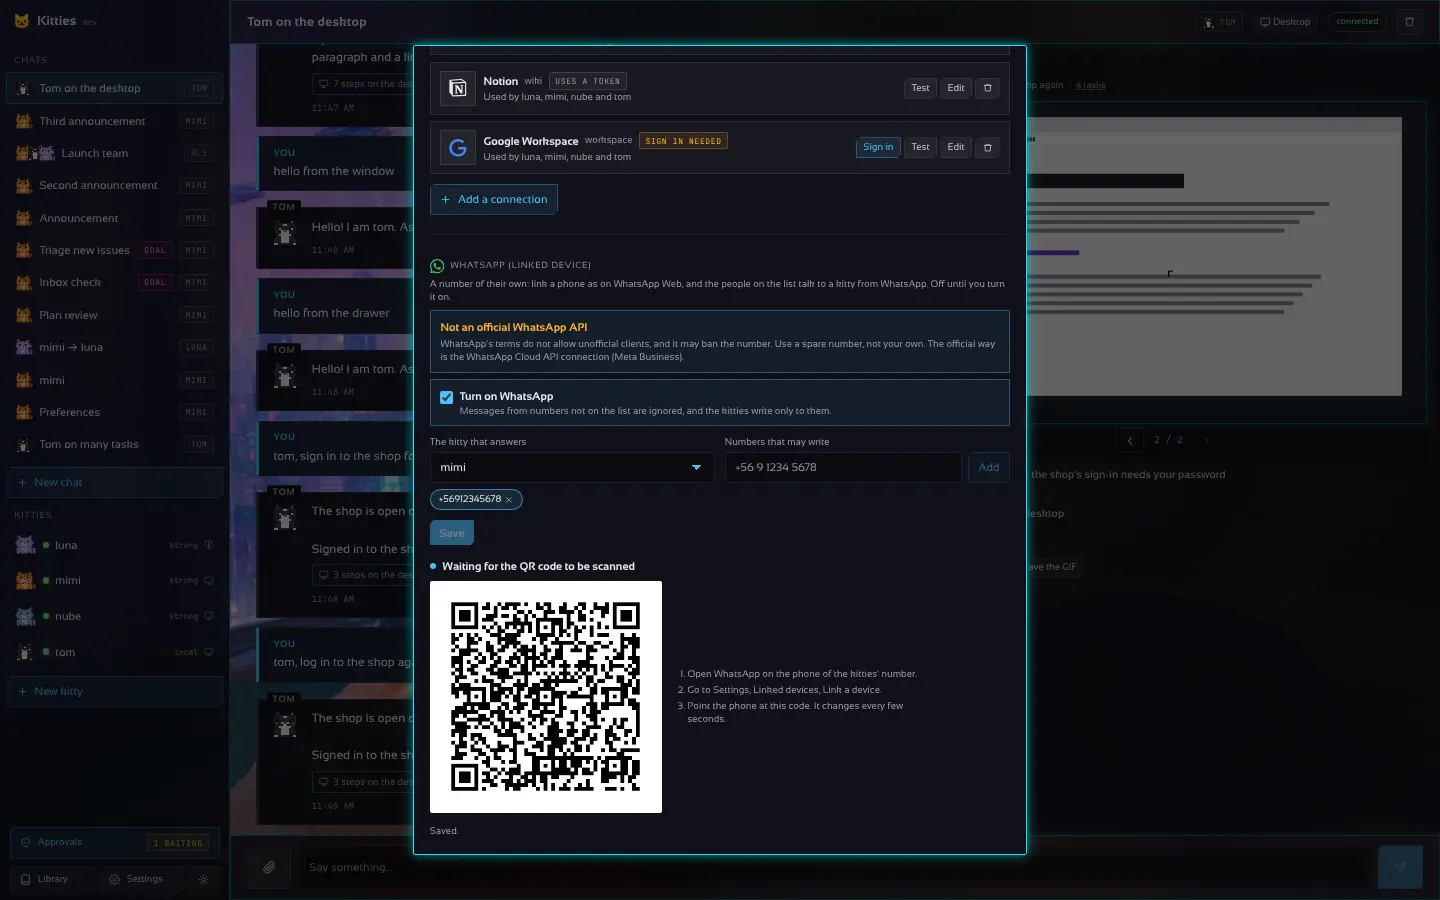
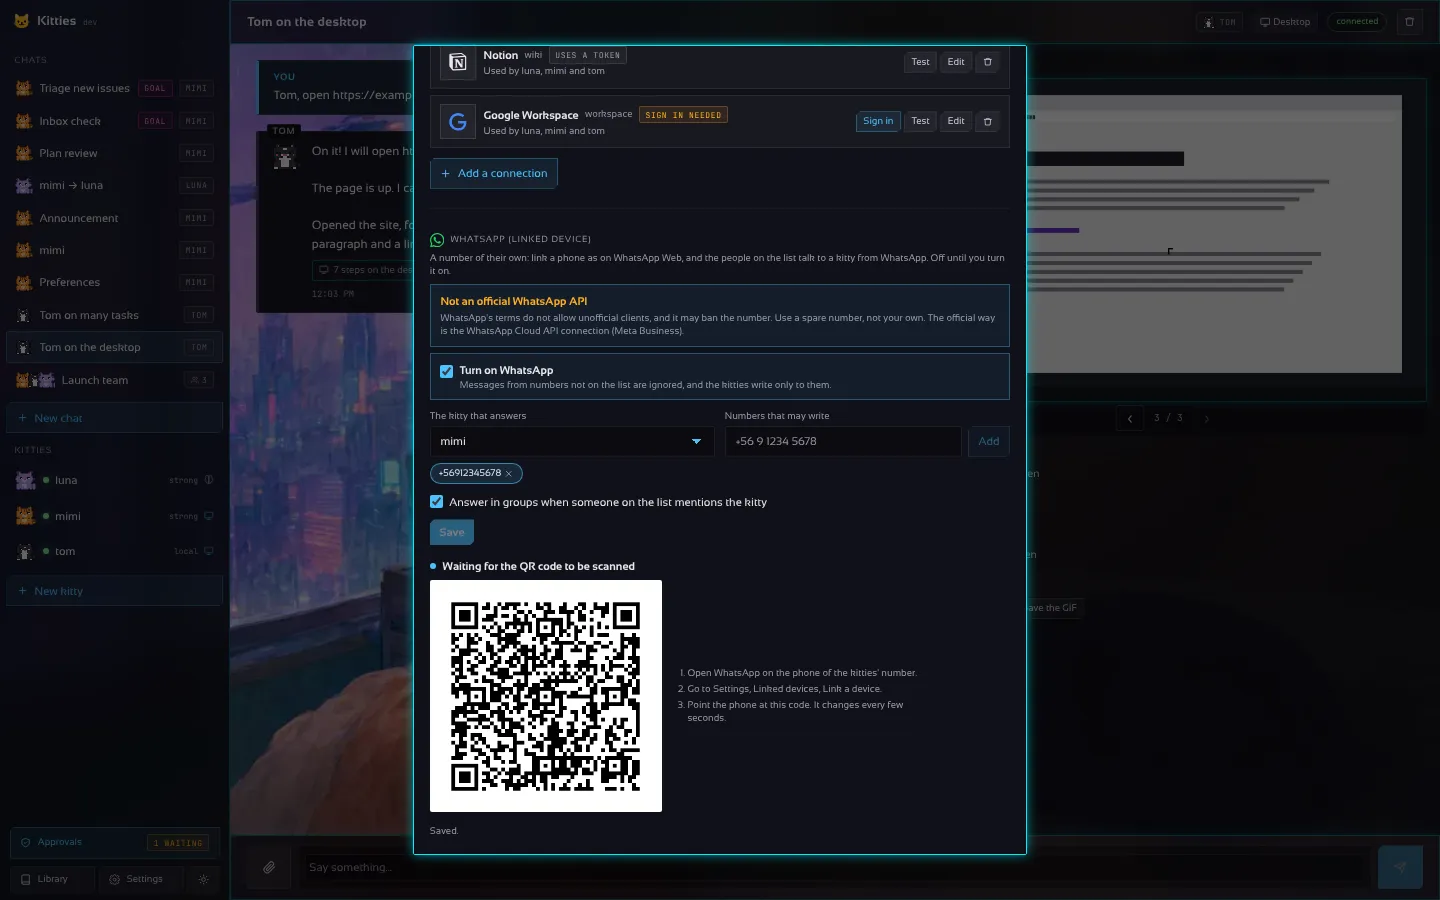
docs(whatsapp): groups, media, voice notes, typing and the YAML section
Claude-Session: https://claude.ai/code/session_017Z7sUbSYL2DPKWnmDEkcnW

diff --git a/site/es/index.html b/site/es/index.html
@@ -45,7 +45,7 @@
 <figure class="one"><img src="../img/attach.webp" alt="Un chat con una imagen y una hoja de cálculo adjuntas, y un PDF esperando en el cuadro de mensaje" loading="lazy" width="1440" height="900"><figcaption>Un mensaje con una imagen y una hoja de cálculo, y un PDF listo para enviar</figcaption></figure></section>
 <section id="claude" class="wrap"><h2>Deja que Claude maneje la flota</h2><p class="lead">Activa el conector MCP en Ajustes y Claude Code o claude.ai podrán listar, crear, encender y dar tareas a tus kitties. Tú eliges qué puede hacer, copias el comando de conexión y revocas cualquier cliente con un clic. El token nunca se muestra.</p>
 <figure class="one"><img src="../img/mcp.webp" alt="Ajustes, Claude (MCP): los interruptores, el comando de conexión y los clientes con sesión" loading="lazy" width="1440" height="900"><figcaption>Ajustes → Preferencias → Claude (MCP)</figcaption></figure></section>
-<section id="whatsapp" class="wrap"><h2>Conversa con tus kitties por WhatsApp</h2><p class="lead">Dales a los kitties un número propio: vincula un teléfono de repuesto como en WhatsApp Web escaneando un código QR en Ajustes. Las personas que pongas en la lista conversan con un kitty desde WhatsApp, y los kitties les responden. Viene desactivado, la lista parte vacía y la sesión queda sellada con la llave del vault. No es una API oficial y WhatsApp puede bloquear el número; la vía oficial es la conexión WhatsApp Cloud API.</p>
+<section id="whatsapp" class="wrap"><h2>Conversa con tus kitties por WhatsApp</h2><p class="lead">Dales a los kitties un número propio: vincula un teléfono de repuesto como en WhatsApp Web escaneando un código QR en Ajustes. Las personas que pongas en la lista conversan con un kitty desde WhatsApp, y los kitties les responden, "escribiendo…" mientras piensan. Responden en grupos cuando los nombran, leen fotos y documentos, y escuchan notas de voz. Viene desactivado, la lista parte vacía y la sesión queda sellada con la llave del vault. No es una API oficial y WhatsApp puede bloquear el número; la vía oficial es la conexión WhatsApp Cloud API.</p>
 <figure class="one"><img src="../img/whatsapp.webp" alt="Ajustes, WhatsApp: el aviso de riesgo, el kitty que responde, los números permitidos y el código QR para escanear" loading="lazy" width="1440" height="900"><figcaption>Ajustes → Conexiones → WhatsApp (dispositivo vinculado)</figcaption></figure></section>
 <section id="claude" class="wrap"><h2>Que Claude dirija la flota</h2><p class="lead">Kitties habla MCP. Conecta Claude Code o claude.ai y Claude se vuelve el orquestador: crea, inicia y detiene kitties, les da tareas, mira sus escritorios y lee sus diarios. Viene desactivado, con un token propio; aprobar acciones de riesgo sigue siendo cosa tuya.</p>
 <div class="term"><pre><code>claude mcp add --transport http kitties http://127.0.0.1:7488/mcp \

diff --git a/site/index.html b/site/index.html
@@ -46,7 +46,7 @@
 <figure class="one"><img src="img/attach.webp" alt="A chat where a picture and a spreadsheet were attached, with a PDF waiting in the composer" loading="lazy" width="1440" height="900"><figcaption>A message with a picture and a spreadsheet, and a PDF waiting to be sent</figcaption></figure></section>
 <section id="claude" class="wrap"><h2>Let Claude run the fleet</h2><p class="lead">Turn on the MCP connector in Settings and Claude Code or claude.ai can list, create, start and give tasks to your kitties. You choose what it may do, copy the connect command and revoke any client in a click. The token is never shown.</p>
 <figure class="one"><img src="img/mcp.webp" alt="Settings, Claude (MCP): the switches, the connect command and the signed-in clients" loading="lazy" width="1440" height="900"><figcaption>Settings → Preferences → Claude (MCP)</figcaption></figure></section>
-<section id="whatsapp" class="wrap"><h2>Talk to your kitties on WhatsApp</h2><p class="lead">Give the kitties a number of their own: link a spare phone as on WhatsApp Web by scanning a QR code in Settings. The people you put on the list chat with a kitty from WhatsApp, and the kitties write back to them. Off by default, the list starts empty and the session is sealed with the vault's key. It is not an official API and WhatsApp may ban the number; the official way is the WhatsApp Cloud API connection.</p>
+<section id="whatsapp" class="wrap"><h2>Talk to your kitties on WhatsApp</h2><p class="lead">Give the kitties a number of their own: link a spare phone as on WhatsApp Web by scanning a QR code in Settings. The people you put on the list chat with a kitty from WhatsApp, and the kitties write back to them, "typing…" while they think. They answer in groups when mentioned, read pictures and documents, and hear voice notes. Off by default, the list starts empty and the session is sealed with the vault's key. It is not an official API and WhatsApp may ban the number; the official way is the WhatsApp Cloud API connection.</p>
 <figure class="one"><img src="img/whatsapp.webp" alt="Settings, WhatsApp: the risk notice, the kitty that answers, the allowed numbers and the QR code to scan" loading="lazy" width="1440" height="900"><figcaption>Settings → Connections → WhatsApp (linked device)</figcaption></figure></section>
 <section id="claude" class="wrap"><h2>Let Claude run the fleet</h2><p class="lead">Kitties speaks MCP. Connect Claude Code or claude.ai and Claude becomes the orchestrator: it creates, starts and stops kitties, gives them tasks, looks at their desktops and reads their journals. Off by default, with a token of its own; approving risky actions stays with you.</p>
 <div class="term"><pre><code>claude mcp add --transport http kitties http://127.0.0.1:7488/mcp \

diff --git a/docs/WHATSAPP.md b/docs/WHATSAPP.md
@@ -26,7 +26,8 @@ connector.
 1. Settings, **Connections**, the **WhatsApp (linked device)** section at the end.
 2. Choose **the kitty that answers**, and add the **numbers that may write** with their country
    code (`+56 9 1234 5678`). The list starts empty: until you add someone, every message is
-   ignored.
+   ignored. Tick **Answer in groups when someone on the list mentions the kitty** to let it talk in
+   groups too.
 3. Tick **Turn on WhatsApp**, then **I understand that WhatsApp may ban this number**, and **Save**.
 4. A QR code appears. On the phone of the kitties' number: WhatsApp, Settings, **Linked devices**,
    **Link a device**, and point it at the code. The code changes every few seconds; if they run out,
@@ -43,7 +44,17 @@ off for about two weeks). **Unlink** removes the device from the phone and forge
   page too. The kitty's answer goes back to WhatsApp, with its Markdown turned into WhatsApp's own
   marks (`*bold*`, `_italics_`). A desktop task is followed: the first words go at once and the
   result when it is done.
-- **Only text, only one-to-one.** Groups, pictures, audio and stickers are not answered yet.
+- **"typing…" while it thinks.** The chat on the phone shows the kitty typing until the answer goes.
+  A message that comes while it is still busy gets a short note in the kitty's language (its soul's
+  language, else the language of the message: English, Spanish or Portuguese).
+- **Groups, when they mention it.** With groups on, a group message is answered only if its sender
+  is on the list and it @mentions the kitties' number, answers one of its messages, or names the
+  kitty. Each group has its own chat (`WhatsApp group …`), with every line signed by its sender;
+  the answer goes to the group.
+- **Pictures, videos, documents and audio.** They reach the kitty as files of the chat (up to 25 MB
+  each), with their caption as the text. A **voice note** is turned into text with the speech API
+  (Whisper) of an `openai` or `groq` profile with a key; without one it comes as an audio file.
+  Stickers, locations and contacts are not answered.
 - **The allow list works both ways.** A message from a number that is not on it is ignored (and
   counted in Settings), without an answer; the kitties can only write to numbers on it.
 - **The kitties write with the connector.** While the link is connected, `whatsapp-web` is offered
@@ -57,6 +68,22 @@ off for about two weeks). **Unlink** removes the device from the phone and forge
   `to` left out writes to whoever wrote last (or to the only number on the list). A send reaches
   other people, so like every `send` it is **held for your approval** until you trust the kitty with
   it ([AUTONOMY.md](AUTONOMY.md)). The answers to a person who wrote are not held: they asked.
+
+## From the file
+
+The `whatsapp:` section of `kitties.yaml` sets the same while nothing was saved from Settings (on a
+server, before opening the page). Settings then keeps its own in `settings.json`.
+
+```yaml
+whatsapp:
+  enabled: true                  # turning it on here is accepting the risk
+  allow: ["+56 9 1234 5678"]
+  kitty: mimi                    # empty: the first kitty
+  groups: false
+  transcribe: ""                 # the openai or groq profile for voice notes; empty: the first; off: none
+```
+
+The QR code is still scanned from Settings, or read with `GET /v1/whatsapp` (`qr_png`).
 
 ## Where things are kept
 
@@ -76,7 +103,7 @@ phone is linked again with a new code.
 | Route | What it does |
 | --- | --- |
 | `GET /v1/whatsapp` | The link: `enabled`, `allow`, `kitty`, `state` (`off`, `starting`, `qr`, `qr_expired`, `connected`, `disconnected`, `logged_out`, `error`), `qr` and `qr_png` (a PNG data URL) while it waits, `phone`, `linked`, `ignored` |
-| `PUT /v1/whatsapp` | `{"enabled", "allow", "kitty"}`; turning it on needs `"accept_risk": true` |
+| `PUT /v1/whatsapp` | `{"enabled", "allow", "kitty", "groups"}`; turning it on needs `"accept_risk": true` |
 | `POST /v1/whatsapp/link` | New QR codes (after they expired or the phone logged the device out) |
 | `POST /v1/whatsapp/unlink` | Removes the device from the phone and forgets the session |
 | `POST /v1/whatsapp/test` | `{"to": "+56912345678"}` sends a short message to a number on the list |
@@ -85,6 +112,7 @@ phone is linked again with a new code.
 
 The protocol is [whatsmeow](https://github.com/tulir/whatsmeow) (MPL-2.0), the WhatsApp Web
 multi-device protocol in Go. `internal/whatsapp` is the bridge (settings, list, chats, connector) and
-knows nothing of the protocol; `internal/whatsapp/wameow` is the connection and the in-memory store
-that is exported, sealed and read back. The bridge is tested with a fake client, the store and the
+knows nothing of the protocol (`transcribe.go` sends voice notes to `/audio/transcriptions`);
+`internal/whatsapp/wameow` is the connection, the media downloads and the in-memory store that is
+exported, sealed and read back. The bridge is tested with a fake client, the store and the
 connection with a fake of whatsmeow's client.

diff --git a/docs/WHATSAPP.es.md b/docs/WHATSAPP.es.md
@@ -26,7 +26,8 @@ escribirles con el conector `whatsapp-web`.
 1. Ajustes, **Conexiones**, la sección **WhatsApp (dispositivo vinculado)** al final.
 2. Elige **el kitty que responde** y agrega los **números que pueden escribir** con su código de
    país (`+56 9 1234 5678`). La lista parte vacía: hasta que agregues a alguien, se ignora todo
-   mensaje.
+   mensaje. Marca **Responder en grupos cuando alguien de la lista nombra al kitty** para que también
+   hable en grupos.
 3. Marca **Activar WhatsApp**, luego **Entiendo que WhatsApp puede bloquear este número**, y
    **Guardar**.
 4. Aparece un código QR. En el teléfono del número de los kitties: WhatsApp, Ajustes,
@@ -45,7 +46,17 @@ olvida la sesión.
   La respuesta vuelve a WhatsApp con su Markdown convertido a las marcas de WhatsApp (`*negrita*`,
   `_cursiva_`). Una tarea en el escritorio se sigue: las primeras palabras van al tiro y el resultado
   cuando termina.
-- **Solo texto, solo uno a uno.** Todavía no responde grupos, fotos, audios ni stickers.
+- **"escribiendo…" mientras piensa.** El chat del teléfono muestra al kitty escribiendo hasta que
+  sale la respuesta. Un mensaje que llega mientras sigue ocupado recibe un aviso corto en el idioma
+  del kitty (el de su alma, o si no el del mensaje: inglés, español o portugués).
+- **Grupos, cuando lo nombran.** Con grupos activado, un mensaje de grupo se responde solo si quien
+  escribe está en la lista y menciona con @ al número de los kitties, responde a uno de sus
+  mensajes o nombra al kitty. Cada grupo tiene su chat (`WhatsApp group …`), con cada línea firmada
+  por quien la escribió; la respuesta va al grupo.
+- **Fotos, videos, documentos y audios.** Le llegan al kitty como archivos del chat (hasta 25 MB
+  cada uno), con su pie de foto como texto. Una **nota de voz** se pasa a texto con la API de voz
+  (Whisper) de un perfil `openai` o `groq` con llave; sin uno llega como archivo de audio. Stickers,
+  ubicaciones y contactos no se responden.
 - **La lista funciona en ambos sentidos.** Un mensaje de un número que no está se ignora (y se
   cuenta en Ajustes) sin respuesta; los kitties solo pueden escribir a números de la lista.
 - **Los kitties escriben con el conector.** Mientras el vínculo está conectado, `whatsapp-web` se
@@ -60,6 +71,23 @@ olvida la sesión.
   personas, así que como todo `send` **queda retenido para tu aprobación** hasta que confíes en el
   kitty para eso ([AUTONOMY.md](AUTONOMY.md)). Las respuestas a quien escribió no se retienen: lo
   pidió.
+
+## Desde el archivo
+
+La sección `whatsapp:` de `kitties.yaml` define lo mismo mientras no se haya guardado nada desde
+Ajustes (en un servidor, antes de abrir la página). Después Ajustes guarda lo suyo en
+`settings.json`.
+
+```yaml
+whatsapp:
+  enabled: true                  # activarlo aquí es aceptar el riesgo
+  allow: ["+56 9 1234 5678"]
+  kitty: mimi                    # vacío: el primer kitty
+  groups: false
+  transcribe: ""                 # el perfil openai o groq para notas de voz; vacío: el primero; off: ninguno
+```
+
+El código QR se sigue escaneando desde Ajustes, o se lee con `GET /v1/whatsapp` (`qr_png`).
 
 ## Dónde se guarda cada cosa
 
@@ -79,7 +107,7 @@ el teléfono de nuevo con otro código.
 | Ruta | Qué hace |
 | --- | --- |
 | `GET /v1/whatsapp` | El vínculo: `enabled`, `allow`, `kitty`, `state` (`off`, `starting`, `qr`, `qr_expired`, `connected`, `disconnected`, `logged_out`, `error`), `qr` y `qr_png` (un data URL PNG) mientras espera, `phone`, `linked`, `ignored` |
-| `PUT /v1/whatsapp` | `{"enabled", "allow", "kitty"}`; activarlo necesita `"accept_risk": true` |
+| `PUT /v1/whatsapp` | `{"enabled", "allow", "kitty", "groups"}`; activarlo necesita `"accept_risk": true` |
 | `POST /v1/whatsapp/link` | Códigos QR nuevos (si expiraron o el teléfono quitó el dispositivo) |
 | `POST /v1/whatsapp/unlink` | Quita el dispositivo del teléfono y olvida la sesión |
 | `POST /v1/whatsapp/test` | `{"to": "+56912345678"}` manda un mensaje corto a un número de la lista |
@@ -88,6 +116,7 @@ el teléfono de nuevo con otro código.
 
 El protocolo es [whatsmeow](https://github.com/tulir/whatsmeow) (MPL-2.0), el protocolo multi-
 dispositivo de WhatsApp Web en Go. `internal/whatsapp` es el puente (ajustes, lista, chats, conector)
-y no sabe nada del protocolo; `internal/whatsapp/wameow` es la conexión y el almacenamiento en
-memoria que se exporta, se sella y se vuelve a leer. El puente se prueba con un cliente falso; el
+y no sabe nada del protocolo (`transcribe.go` manda las notas de voz a `/audio/transcriptions`);
+`internal/whatsapp/wameow` es la conexión, las descargas de archivos y el almacenamiento en memoria
+que se exporta, se sella y se vuelve a leer. El puente se prueba con un cliente falso; el
 almacenamiento y la conexión, con un falso del cliente de whatsmeow.

diff --git a/docs/API.md b/docs/API.md
@@ -42,6 +42,6 @@
 
 `POST /mcp` is the [MCP connector](MCP.md) (off by default, its own bearer token). `GET /v1/mcp/clients` · `DELETE /v1/mcp/clients/{id}` list and revoke the OAuth clients that signed in. `GET`/`PUT /v1/mcp` read and change the connector's switches (`accept_risk` to turn on exec or approve; the gateway restarts); `GET /v1/mcp/token` returns its token (explicit, never cached) and `POST /v1/mcp/token` rotates it; `POST /v1/mcp/test` asks the connector for its tools and says whether it answers.
 
-`GET`/`PUT /v1/whatsapp` read and change the [WhatsApp link](WHATSAPP.md) (on, the allow list, the kitty that answers; `accept_risk` to turn it on) and give the QR code to scan while it waits; `POST /v1/whatsapp/link` asks for new codes, `POST /v1/whatsapp/unlink` removes the device and forgets its session, and `POST /v1/whatsapp/test` writes to a number on the list.
+`GET`/`PUT /v1/whatsapp` read and change the [WhatsApp link](WHATSAPP.md) (on, the allow list, the kitty that answers, whether it answers in groups; `accept_risk` to turn it on) and give the QR code to scan while it waits; `POST /v1/whatsapp/link` asks for new codes, `POST /v1/whatsapp/unlink` removes the device and forgets its session, and `POST /v1/whatsapp/test` writes to a number on the list.
 
 Every other call needs `Authorization: Bearer <token>`; `/` and `/v1/health` are open.
